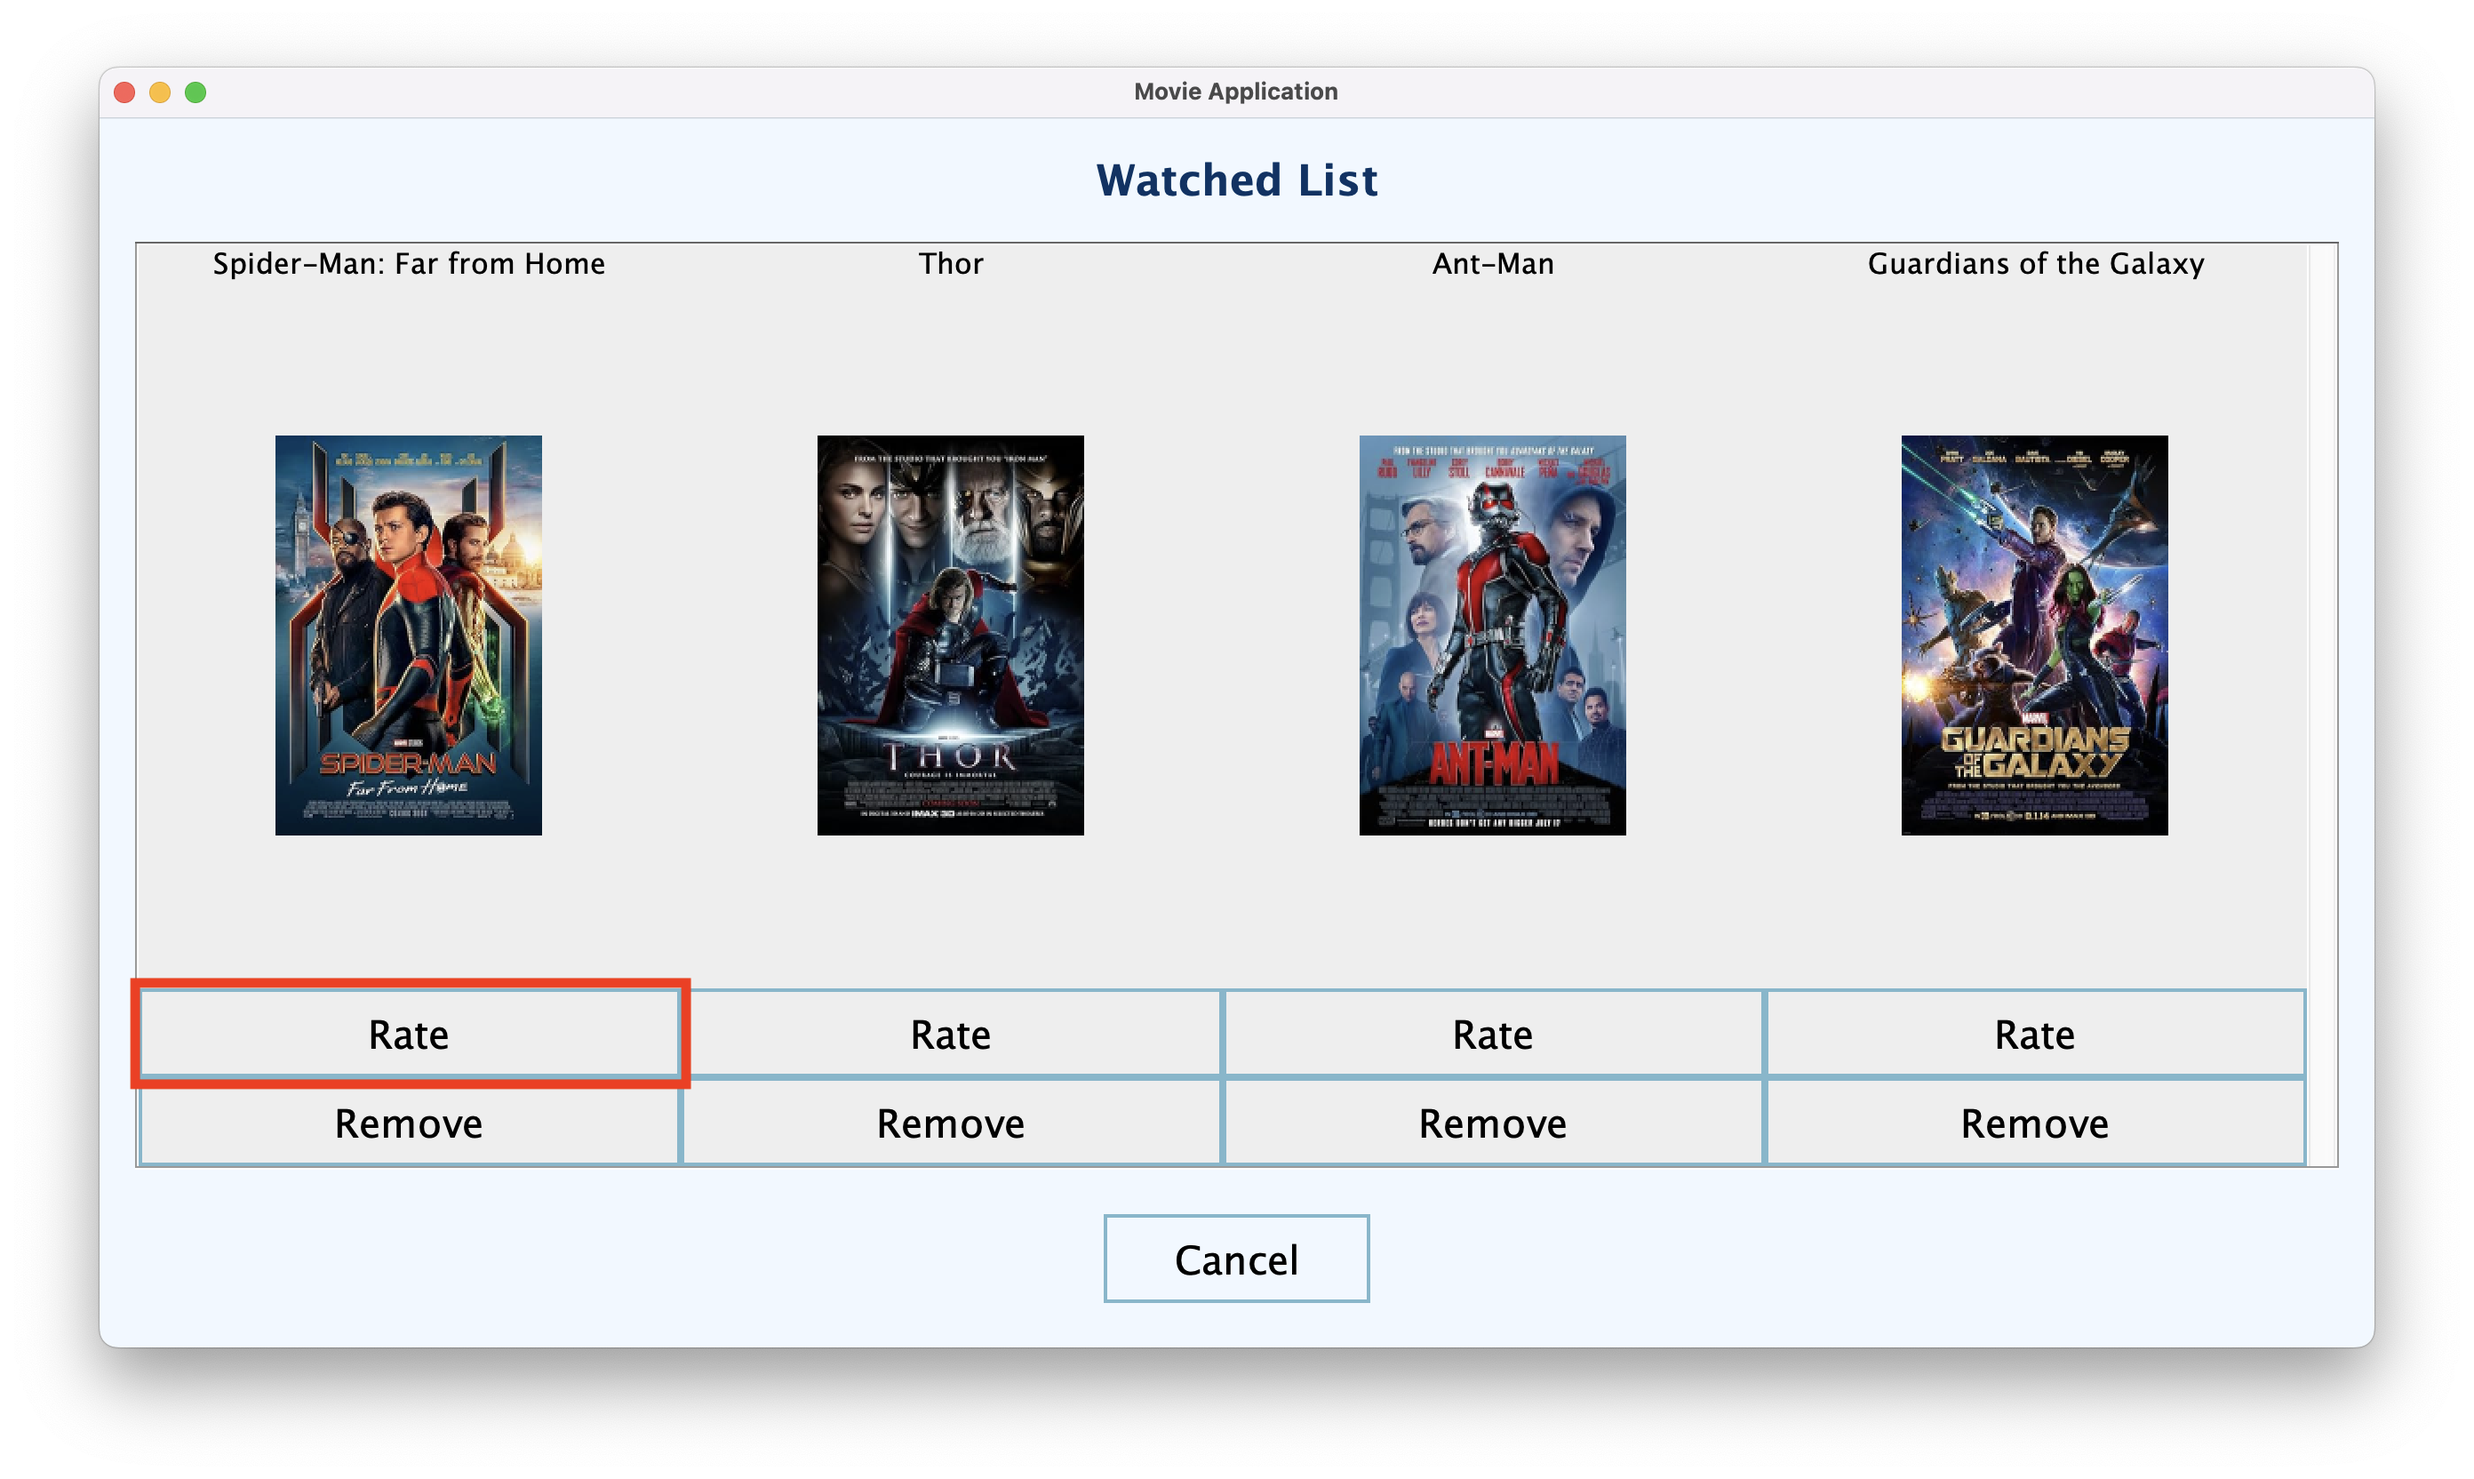
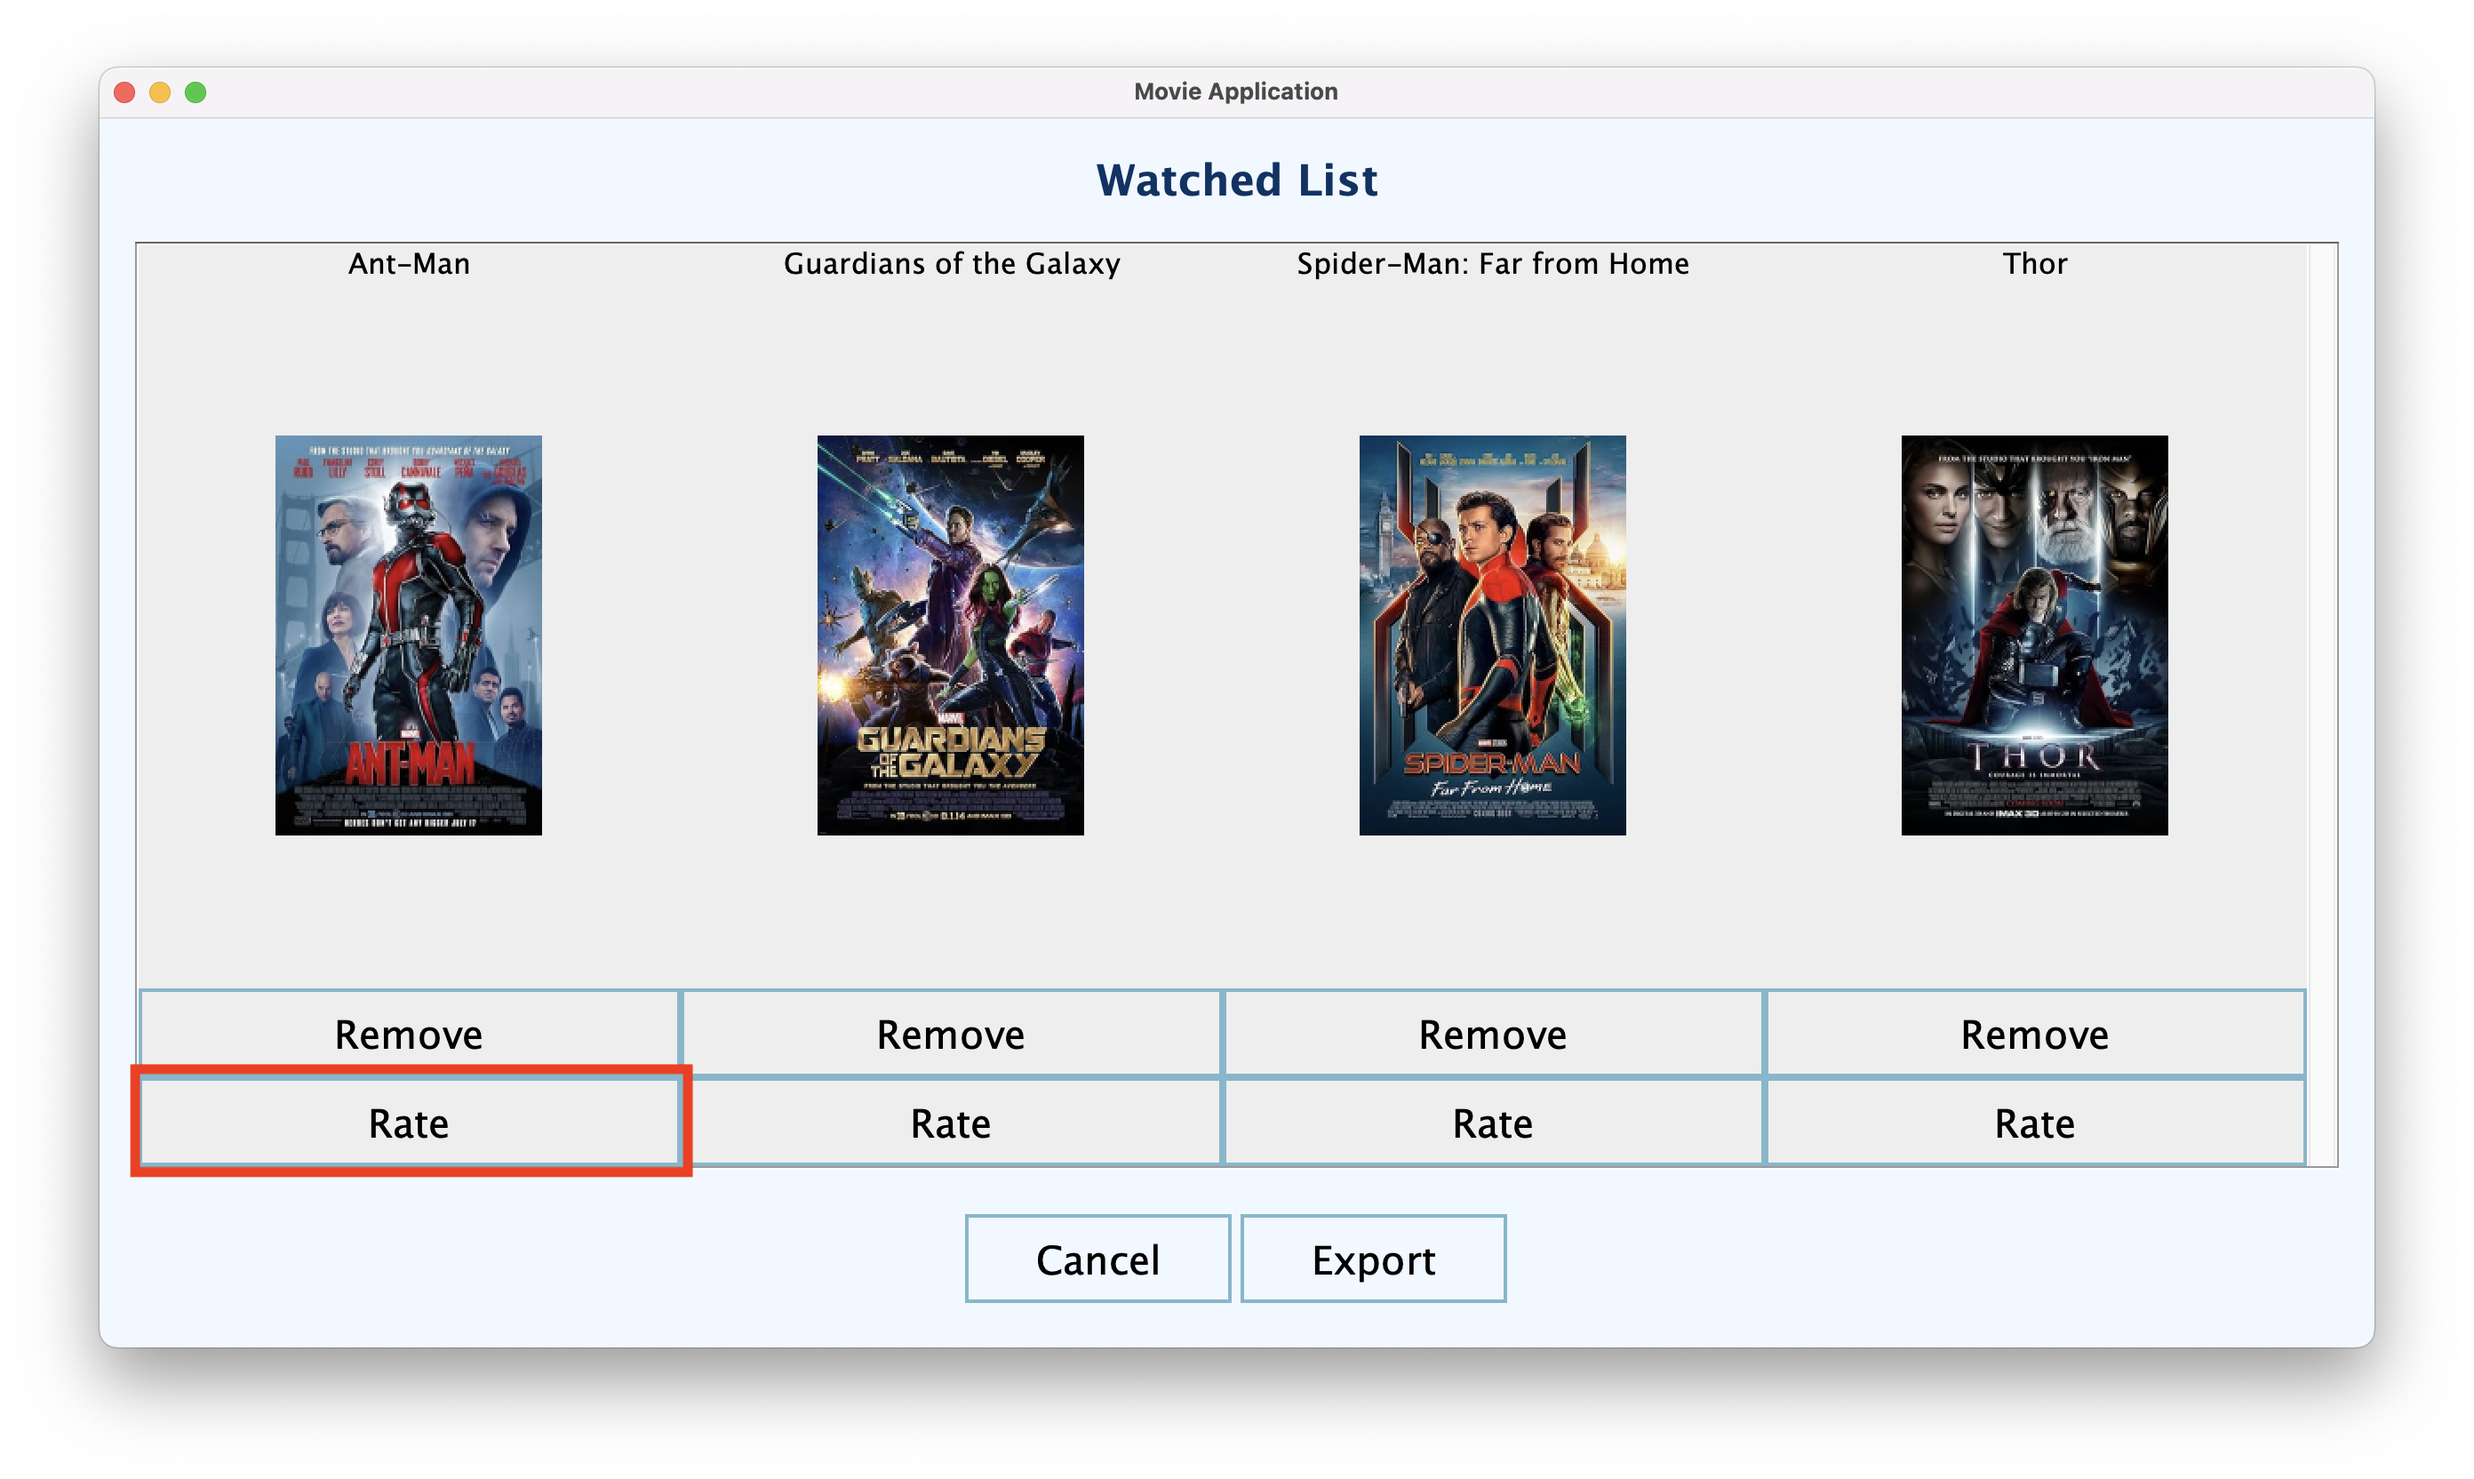
Updating readme

diff --git a/README.md b/README.md
@@ -31,7 +31,7 @@ The purpose of this project is to create a movie organization system that allows
 - Add and remove movies from a watched list to track films you’ve already seen.
 - Rate movies you’ve watched on a scale of 0 to 5.
 - View a dashboard with insights including total hours watched, longest movie watched, favorite genre, favorite movie, and your average movie rating.
-- Export your watchlist to a `.txt` file.
+- Export your watchlist and watched list to a `.txt` file.
 
 #### Here's what the Logged-In View looks like:
 <img src="images/LoggedInView.png" alt="Logged In View" width="500"/>
@@ -117,6 +117,11 @@ Here is the formatted list in Markdown:
   Log in and navigate to your Watchlist. Click **Export** to download your watchlist as a `.txt` file named `watchlist_username.txt`, saved to the project directory.
 
   <img src="images/ExportWatchlist.png" alt="Exporting watchlist" width="500"/>
+
+- **Export Watched List**:
+  Log in and navigate to your Watched List. Click **Export** to download your watchlist as a `.txt` file named `watchedlist_username.txt`, saved to the project directory.
+
+  <img src="images/ExportWatchedList.png" alt="Exporting watchlist" width="500"/>
 
 ### License
 You can find the license [here](LICENSE).
